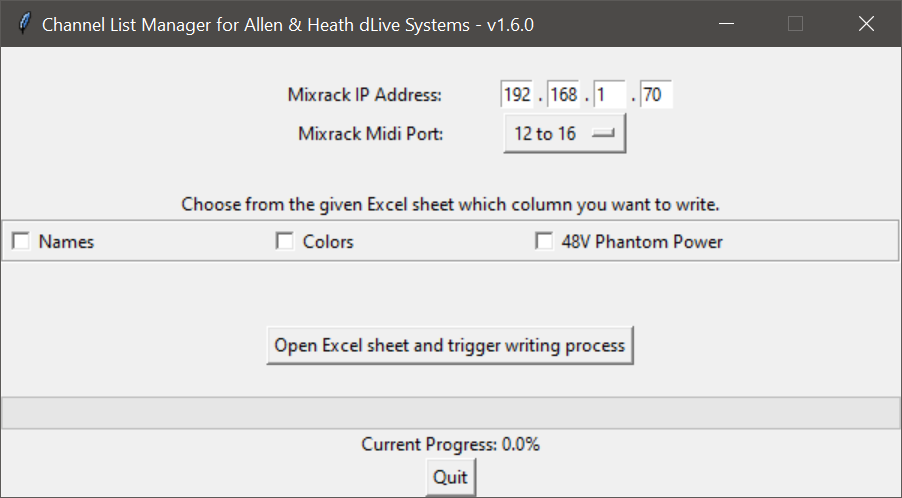
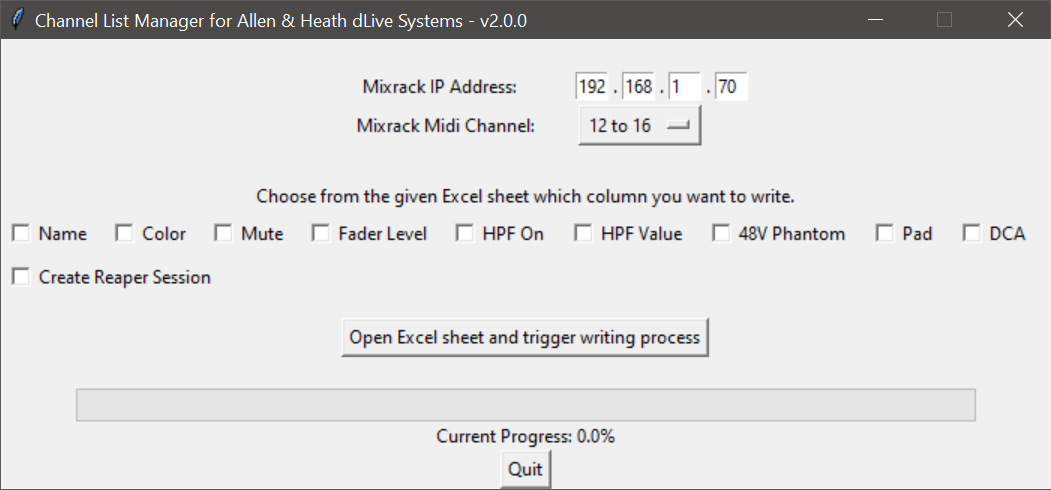
updated screenshots for v2.0.0

diff --git a/README.md b/README.md
@@ -24,9 +24,13 @@ more information can be found in the [wiki](https://github.com/togrupe/dlive-mid
 ![Overview](overview.drawio.png)
 
 ## Input file
-Excel sheet, please edit the columns: Name, Color and Phantom
-
-![Excel](doc/excel.png)
+Excel sheet, please have a look at the following tabs
+Channel Overview "Channels"
+![Channels](doc/excel_channels.png)
+48V Phantom Power and PAD Overview
+![Phantom](doc/excel_phantom.png)
+Channel DCA Overview
+![DCA](doc/excel_dca.png)
 
 An example Excel file named: **dLiveChannelList.xlsx** can be found in the root folder. 
 By default, the channels 1-128 are available in the sheet. If you need less, 
